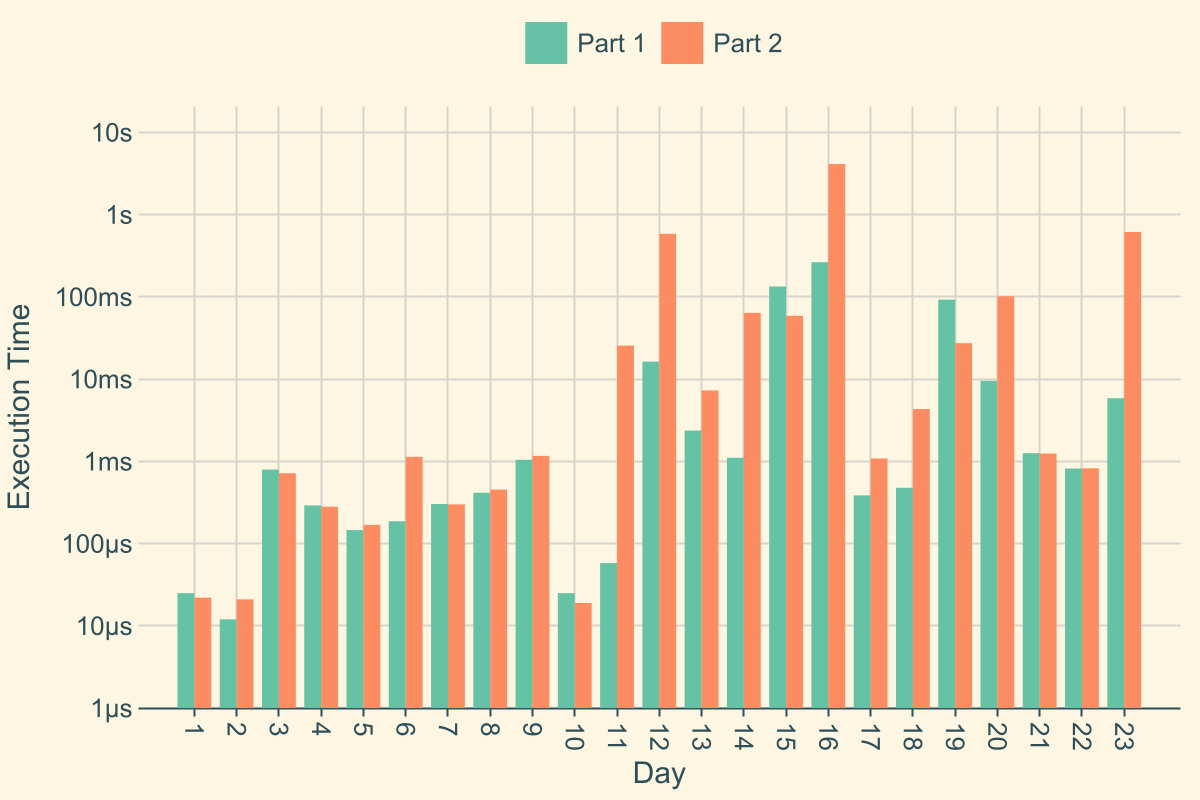
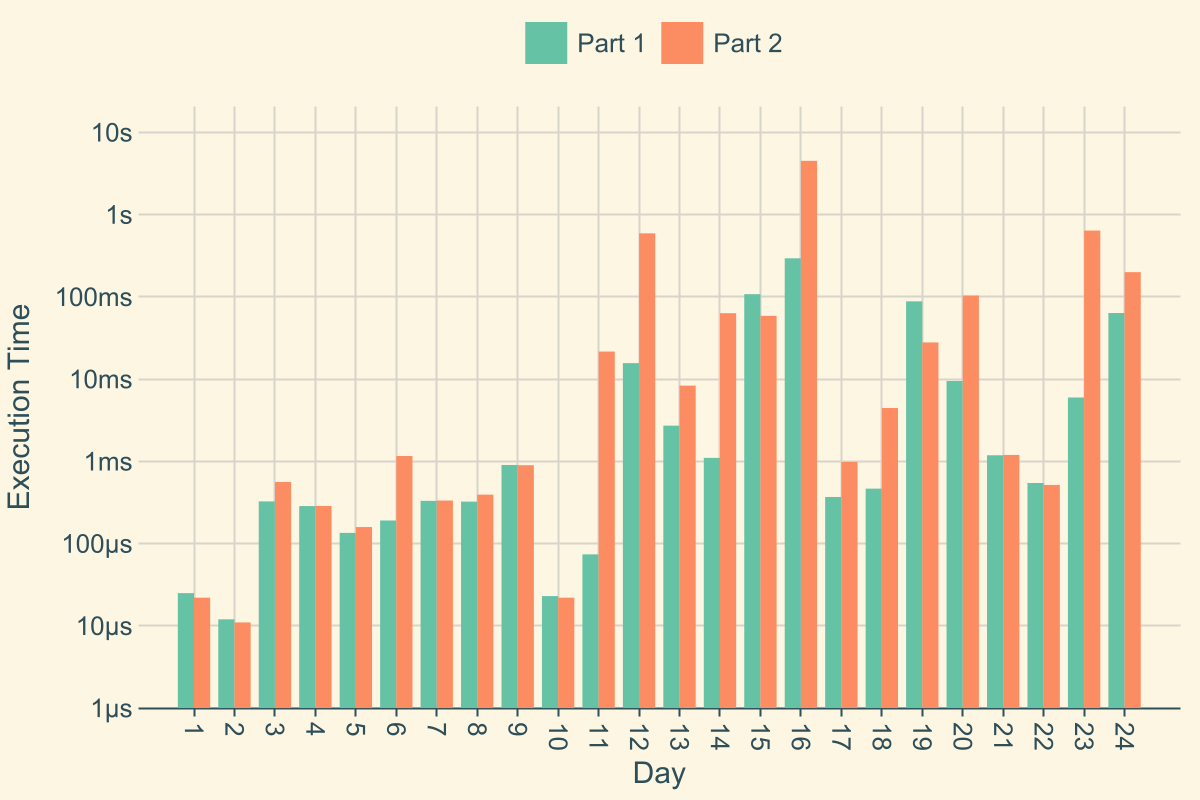
24

Changed region(s): [[0.1542, 0.1875, 0.9558, 0.9375]]

diff --git a/src/day24.rs b/src/day24.rs
@@ -1,0 +1,284 @@
+use std::borrow::Borrow;
+use std::cell::RefCell;
+use std::cmp::{max, min, Ordering};
+use std::collections::{BinaryHeap, HashMap, HashSet};
+use std::fmt::{Debug, Formatter};
+use std::ops::{Add, Div, Mul, Neg, Sub};
+use std::rc::Rc;
+use std::str::FromStr;
+use std::thread::sleep;
+use std::time::Duration;
+
+use crate::harness::{Day, Part};
+
+pub fn day24() -> Day<u32, u32> {
+    Day::new(24, Box::new(Part1 {}), Box::new(Part2 {}))
+}
+
+pub struct Part1;
+
+impl Part<u32> for Part1 {
+    fn expect_test(&self) -> u32 {
+        18
+    }
+
+    fn solve(&self, input: &Vec<String>) -> u32 {
+        let map = Map::from(input);
+
+        let start = map.start();
+        let goal = map.goal();
+
+        let minutes = search_iter(&map, start, goal, 0).unwrap();
+
+        minutes as u32
+    }
+}
+
+pub struct Part2;
+
+impl Part<u32> for Part2 {
+    fn expect_test(&self) -> u32 {
+        54
+    }
+
+    fn solve(&self, input: &Vec<String>) -> u32 {
+        let map = Map::from(input);
+
+        let start = map.start();
+        let goal = map.goal();
+
+        let minutes = search_iter(&map, start, goal, 0).unwrap();
+        let minutes = search_iter(&map, goal, start, minutes).unwrap();
+        let minutes = search_iter(&map, start, goal, minutes).unwrap();
+
+        minutes as u32
+    }
+}
+
+const MOVEMENT_OPTIONS: [Point; 5] = [Point::EAST, Point::SOUTH, Point::ZERO, Point::NORTH, Point::WEST];
+
+#[derive(PartialEq, Eq, Hash)]
+struct SearchState {
+    minutes_passed: usize,
+    position: Point,
+}
+
+impl Debug for SearchState {
+    fn fmt(&self, f: &mut Formatter<'_>) -> std::fmt::Result {
+        write!(f, "({}, ({},{}))", self.minutes_passed, self.position.x, self.position.y)
+    }
+}
+
+impl PartialOrd<Self> for SearchState {
+    fn partial_cmp(&self, other: &Self) -> Option<Ordering> {
+        Some(self.cmp(other))
+    }
+}
+
+impl SearchState {
+    pub fn new(minutes_passed: usize, position: Point) -> Self {
+        Self { minutes_passed, position }
+    }
+}
+
+impl Ord for SearchState {
+    fn cmp(&self, other: &Self) -> Ordering {
+        let x_order = self.position.x.cmp(&other.position.x);
+        let y_order = self.position.y.cmp(&other.position.y);
+        let time_order = self.minutes_passed.cmp(&other.minutes_passed).reverse();
+
+        time_order.then(x_order).then(y_order)
+    }
+}
+
+fn search_iter(map: &Map, start: Point, target: Point, minutes_passed: usize) -> Option<usize> {
+    let mut open: BinaryHeap<SearchState> = BinaryHeap::new();
+    let mut closed: HashSet<SearchState> = HashSet::new();
+
+    open.push(SearchState::new(minutes_passed, start));
+
+    let mut best: Option<usize> = None;
+
+    while let Some(state) = open.pop() {
+        let SearchState { minutes_passed, position } = state;
+
+        if !closed.insert(state) {
+            continue;
+        }
+
+        if let Some(best) = best {
+            if minutes_passed >= best {
+                continue;
+            }
+        }
+
+        if position == target {
+            best = Some(minutes_passed);
+            continue;
+        }
+
+        let next_blizzard = map.blizzards_at(minutes_passed + 1);
+
+        for direction in MOVEMENT_OPTIONS {
+            let next_position = position + direction;
+            if next_blizzard.contains(&next_position) {
+                continue;
+            }
+            if map.is_wall(next_position) {
+                continue;
+            }
+            open.push(SearchState::new(minutes_passed + 1, next_position));
+        }
+    }
+
+    best
+}
+
+struct Map {
+    raw: Vec<Vec<char>>,
+    blizzards: RefCell<Vec<Rc<Vec<Blizzard>>>>,
+    blizzards_set: RefCell<Vec<Rc<HashSet<Point>>>>,
+    min: Point,
+    max: Point,
+}
+
+impl Map {
+    pub fn new(raw: Vec<Vec<char>>, blizzard: Vec<Blizzard>, min: Point, max: Point) -> Self {
+        let blizzard_set: HashSet<Point> = blizzard.iter().map(|b| b.position).collect();
+
+        Self {
+            raw,
+            blizzards: RefCell::new(vec![Rc::new(blizzard)]),
+            blizzards_set: RefCell::new(vec![Rc::new(blizzard_set)]),
+            min,
+            max,
+        }
+    }
+
+    fn start(&self) -> Point {
+        self.raw[0].iter()
+            .enumerate()
+            .find(|(_, c)| **c == '.')
+            .map(|(x, _)| p(x as i32, self.min.y))
+            .unwrap()
+    }
+
+    fn goal(&self) -> Point {
+        self.raw.last().unwrap().iter()
+            .enumerate()
+            .find(|(_, c)| **c == '.')
+            .map(|(x, _)| p(x as i32, self.max.y))
+            .unwrap()
+    }
+
+    fn is_wall(&self, position: Point) -> bool {
+        if let Some('.') = self.raw.get(position.y as usize).map(|row| row.get(position.x as usize)).flatten() {
+            false
+        } else {
+            true
+        }
+    }
+
+    fn blizzards_at(&self, minute: usize) -> Rc<HashSet<Point>> {
+        let n_blizzards = self.blizzards.borrow().len();
+        for i in n_blizzards..=minute {
+            let current_blizzard = self.step_blizzard(self.blizzards.borrow()[i - 1].as_ref());
+            self.blizzards_set.borrow_mut().insert(i, Rc::new(current_blizzard.iter().map(|b| b.position).collect()));
+            self.blizzards.borrow_mut().insert(i, Rc::new(current_blizzard));
+        }
+
+        self.blizzards_set.borrow()[minute].clone()
+    }
+
+    fn step_blizzard(&self, blizzards: &Vec<Blizzard>) -> Vec<Blizzard> {
+        blizzards.iter()
+            .copied()
+            .map(|mut blizzard| {
+                blizzard.position = match blizzard.position + blizzard.direction {
+                    q if q.x <= self.min.x => p(self.max.x - 1, q.y),
+                    q if q.x >= self.max.x => p(self.min.x + 1, q.y),
+                    q if q.y <= self.min.y => p(q.x, self.max.y - 1),
+                    q if q.y >= self.max.y => p(q.x, self.min.y + 1),
+                    q => q,
+                };
+
+                blizzard
+            })
+            .collect()
+    }
+}
+
+impl From<&Vec<String>> for Map {
+    fn from(value: &Vec<String>) -> Self {
+        let mut blizzard = vec![];
+
+        let raw: Vec<Vec<_>> =
+            value.iter()
+                .filter(|line| !line.is_empty())
+                .enumerate()
+                .map(|(y, row)|
+                    row.chars()
+                        .enumerate()
+                        .map(|(x, char)| {
+                            let direction = match char {
+                                '^' => Some(Point::NORTH),
+                                '>' => Some(Point::EAST),
+                                'v' => Some(Point::SOUTH),
+                                '<' => Some(Point::WEST),
+                                _ => None
+                            };
+
+                            if let Some(direction) = direction {
+                                blizzard.push(Blizzard::new(p(x as i32, y as i32), direction));
+                            }
+
+                            direction.map(|_| '.').unwrap_or(char)
+                        })
+                        .collect()
+                )
+                .collect();
+
+        let min = p(0, 0);
+        let max = p(raw[0].len() as i32 - 1, raw.len() as i32 - 1);
+
+        Map::new(raw, blizzard, min, max)
+    }
+}
+
+#[derive(Copy, Clone, Debug)]
+struct Blizzard {
+    position: Point,
+    direction: Point,
+}
+
+impl Blizzard {
+    pub fn new(position: Point, direction: Point) -> Self {
+        Self { position, direction }
+    }
+}
+
+#[derive(Copy, Clone, Debug, Eq, PartialEq, Hash)]
+struct Point {
+    x: i32,
+    y: i32,
+}
+
+const fn p(x: i32, y: i32) -> Point {
+    Point { x, y }
+}
+
+impl Add<Point> for Point {
+    type Output = Self;
+
+    fn add(self, rhs: Point) -> Self::Output {
+        p(self.x + rhs.x, self.y + rhs.y)
+    }
+}
+
+impl Point {
+    const ZERO: Self = p(0, 0);
+    const NORTH: Self = p(0, -1);
+    const EAST: Self = p(1, 0);
+    const SOUTH: Self = p(0, 1);
+    const WEST: Self = p(-1, 0);
+}

diff --git a/src/main.rs b/src/main.rs
@@ -33,7 +33,7 @@ use crate::day20::day20;
 use crate::day21::day21;
 use crate::day22::day22;
 use crate::day23::day23;
-// use crate::day24::day24;
+use crate::day24::day24;
 // use crate::day25::day25;
 use crate::harness::{AocResult, Day};
 
@@ -61,7 +61,7 @@ mod day20;
 mod day21;
 mod day22;
 mod day23;
-// mod day24;
+mod day24;
 // mod day25;
 
 fn main() {
@@ -89,7 +89,7 @@ fn main() {
         day21().f(),
         day22().f(),
         day23().f(),
-        // day24().f(),
+        day24().f(),
         // day25().f(),
     ];
 
